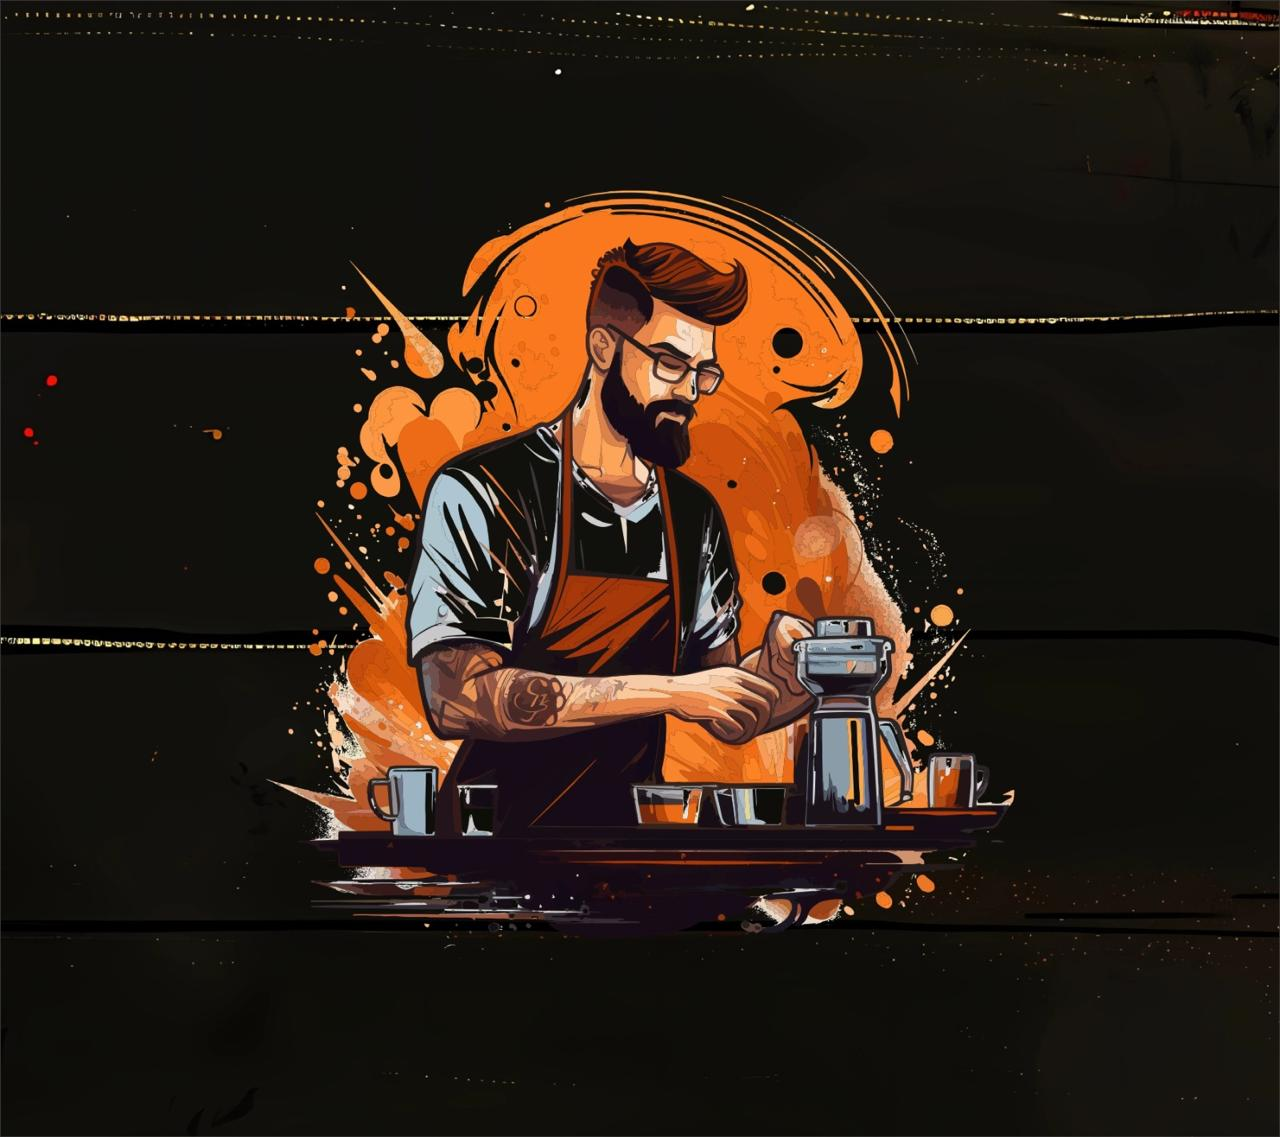
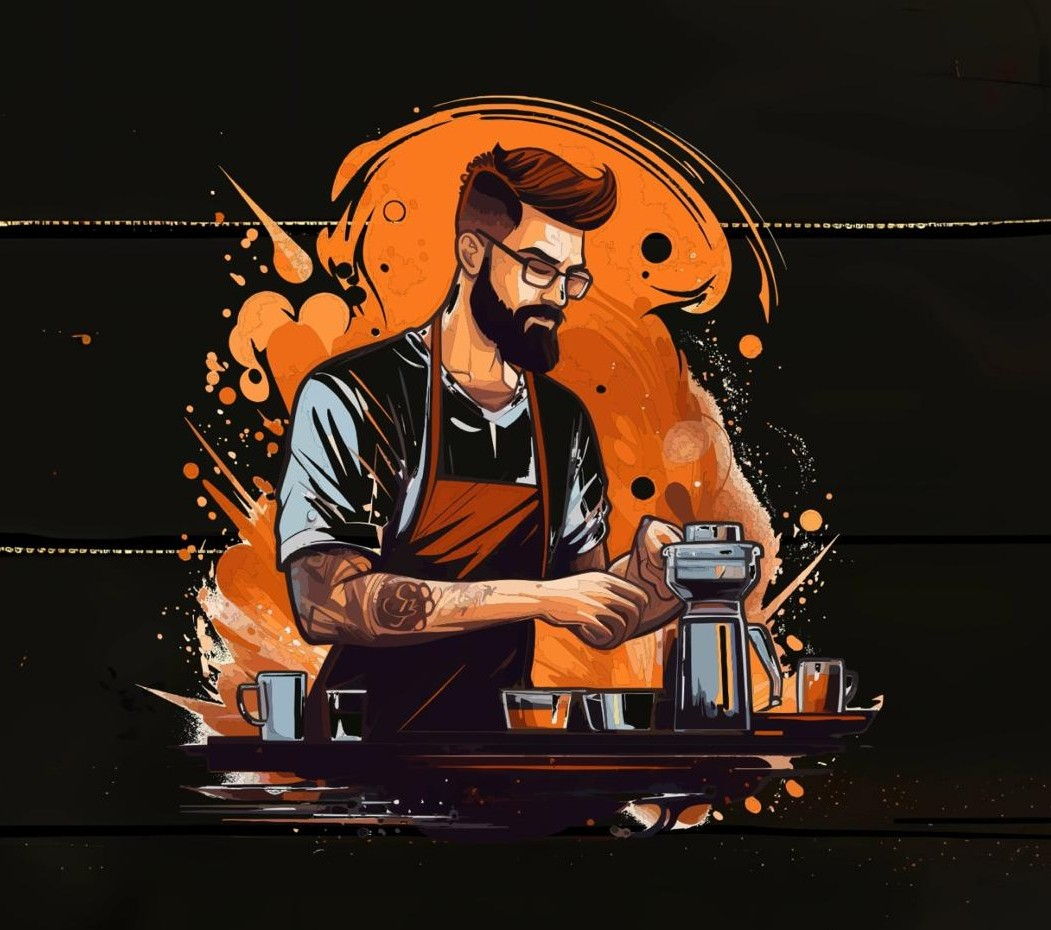
all

diff --git a/src/app/home/home.component.css b/src/app/home/home.component.css
@@ -9,29 +9,31 @@ body{
 }
 .logo{
     display: block;
-    margin-top: 10px;
+    margin-top: 7px;
     margin-left: auto;
     margin-right: auto;
+    
 }
 .logo img{
     height: 150px;
+    border-radius: 100%;
 }
 
 .slider {
     /* position: relative; */
     width: 100%;
-    height: 400px;
+    height: 300;
     max-width: 600px;
     margin: auto;
     overflow: hidden;
     display: flex;
     flex-direction: row;
-    margin-top: -20px;
 
   }
   
   .slider-image {
     width: 100%;
+    max-height: 300px;
     transition: opacity 0.5s ease;
     object-fit: contain;
     transition: transform 0.5s ease;
@@ -39,7 +41,7 @@ body{
   
   .nav-button {
     position:absolute;
-    top: 50%;
+    top: 44%;
     transform: translateY(-50%);
     background-color: rgba(255, 255, 255, 0.6);
     border: none;
@@ -60,6 +62,9 @@ body{
     background-color: rgba(255, 255, 255, 0.8);
   }
 
+  .menu{
+
+  }
   .menu img{
     width: 100%;
 

diff --git a/src/app/home/home.component.html b/src/app/home/home.component.html
@@ -9,7 +9,7 @@
 
 <body>
     <div class="logo">
-        <img src="assets/logo.png" />
+        <img src="assets/logo1.png" />
     </div>
 
     <div class="slider" (mousedown)="onMouseDown($event)" (mouseup)="onMouseUp($event)"
